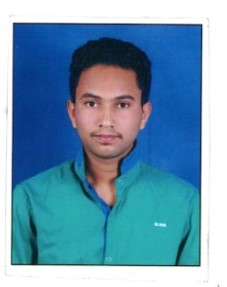
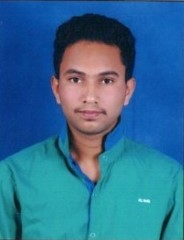
rgerg

diff --git a/src/content/groupmembers.js b/src/content/groupmembers.js
@@ -483,7 +483,7 @@ images:[
 "Master of Technology in Mechanical Engineering from KIIT School of Mechanical Engineering, (2023)\nBachelor's of Techniology in Mechanical Engineering from KIIT School of Mechanical Engineering (2018)",
     topic: 'Freezing characteristics of saline droplets on metallic pipe surfaces: experimental and theoretical study',
     duration: 'July 2026 – present',
-    email: 'shrutisingh4603@gmail.com',
+    email: 'pal.arindam.44@gmail.com',
     contact: 'XXXX',
     links: {
       linkedin: 'XXXX',
@@ -559,6 +559,7 @@ images:[
     name: 'Mr. Sandeep Shankar Chavan',
     photo: '/images/groupmembers/phd/sandeep_chavan.jpeg',
     position: 'PhD Scholar',
+    funding:'AICTE QIP',
     peerReviewedPublications: [''
 ],
 patents: [],
@@ -583,13 +584,41 @@ images:[
       scholar: 'XXXX'
     }
   },
+{
+    id: 'phd-12',
+    type: 'PhD',
+    name: 'Ms. Shehnas TK',
+    photo: '/images/groupmembers/PHD/shehnas_tk.jpg',
+    position: 'PhD Scholar',
+    funding:'MHRD fellowship',
+    peerReviewedPublications: ['N/A'
+    ],
+    patents: ['N/A'
+    ],
+    conferences: ['N/A'
+    ],
+    awards: ['N/A'
+    ],
+    images: [
+      '/images/events/event1.jpg',
+      '/images/events/event2.jpg',
+      '/images/events/event3.jpg',
+      '/images/events/event4.jpg'
+    ],
+    previousDegree: "",
+    topic: 'Digital twin',
+    duration: 'July 2026 – Present',
+    email: 'shehnas_tk@wr.iitr.ac.in',
+    coSupervisor: 'Prof. Sameer Ali, Indian Institute of Technology, Roorkee',
+  },
+
 
 ];
 
 export const mastersStudents = [
   
 {
-    id: 'mtech-20',
+    id: 'mtech-21',
     type: 'MTech',
     name: 'Mr. Dhairya Bhardwaj',
     photo: '/images/groupmembers/mtech/dhairya_bhardwaj.jpeg',
@@ -618,7 +647,7 @@ export const mastersStudents = [
   },
 
   {
-    id: 'mtech-19',
+    id: 'mtech-20',
     type: 'MTech',
     name: 'Mr. Festo Nicholaus Mnosi',
     photo: '/images/groupmembers/mtech/festo_nicholaus.jpeg',
@@ -645,7 +674,7 @@ export const mastersStudents = [
     email: '',
   },
 {
-    id: 'mtech-18',
+    id: 'mtech-19',
     type: 'MTech',
     name: 'Mr. Hamisi Yasini Hamisi',
     photo: '/images/groupmembers/mtech/hamisi_yasini.jpg',
@@ -672,7 +701,7 @@ export const mastersStudents = [
     email: '',
   },
 {
-    id: 'mtech-17',
+    id: 'mtech-18',
     type: 'MTech',
     name: 'Mr. Humed Mohammed Ebrahim',
     photo: '/images/groupmembers/mtech/humed_mohammed.jpeg',
@@ -701,7 +730,7 @@ export const mastersStudents = [
     coSupervisor: 'Prof Anshul Yadav'
   },
   {
-    id: 'mtech-16',
+    id: 'mtech-17',
     type: 'MTech',
     name: 'Ms. Kalash Dwivedi',
     photo: '/images/groupmembers/mtech/kalash_dwivedi.jpeg',
@@ -728,7 +757,7 @@ export const mastersStudents = [
     email: 'kalash_d@wr.iitr.ac.in',
   },
 {
-    id: 'mtech-15',
+    id: 'mtech-16',
     type: 'MTech',
     name: 'Ms. Nampija Gloria',
     photo: '/images/groupmembers/mtech/gloria_nampija.jpg',
@@ -755,6 +784,37 @@ export const mastersStudents = [
     email: 'gloria_n@wr.iitr.ac.in',
     coSupervisor: ''
   },
+
+
+{
+    id: 'mtech-15',
+    type: 'MTech',
+    name: 'Mr. Niraj Podar',
+    photo: '/images/groupmembers/mtech/niraj_podar.jpeg',
+    position: 'Master of Technology in Water Resource Development',
+    nationality: 'Nepali',
+    researchArea: '',
+    peerReviewedPublications: ['N/A'
+    ],
+    patents: ['N/A'
+    ],
+    conferences: ['N/A'
+    ],
+    awards: ['N/A'
+    ],
+    images: [
+      '/images/events/event1.jpg',
+      '/images/events/event2.jpg',
+      '/images/events/event3.jpg',
+      '/images/events/event4.jpg'
+    ],
+    previousDegree: "Bachelor of Technology in Civil Engineering (2023)",
+    topic: 'Performance Based Assessment of Existing Weir Type Headworks Under Extreme Flow Condition Using HEC-RAS, GIS and flood mapping',
+    duration: 'July 2025 – Present',
+    email: 'niraj_p@wr.iitr.ac.in',
+  },
+
+
 {
     id: 'mtech-14',
     type: 'MTech',
@@ -811,7 +871,7 @@ export const mastersStudents = [
     topic: 'Machine Learning Framework for Spatio-Temporal Water Quality Modelling and Risk Assessment Using Remote Sensing and GIS',
     duration: 'July 2025 – Present',
     email: 'shehnas_tk@wr.iitr.ac.in',
-    coSupervisor: 'Prof. Tanaya Sarmah, Indian Institute of Technology, Roorkee',
+    coSupervisor: 'Prof. Sameer Ali, Indian Institute of Technology, Roorkee',
   },
 {
     id: 'mtech-12',
